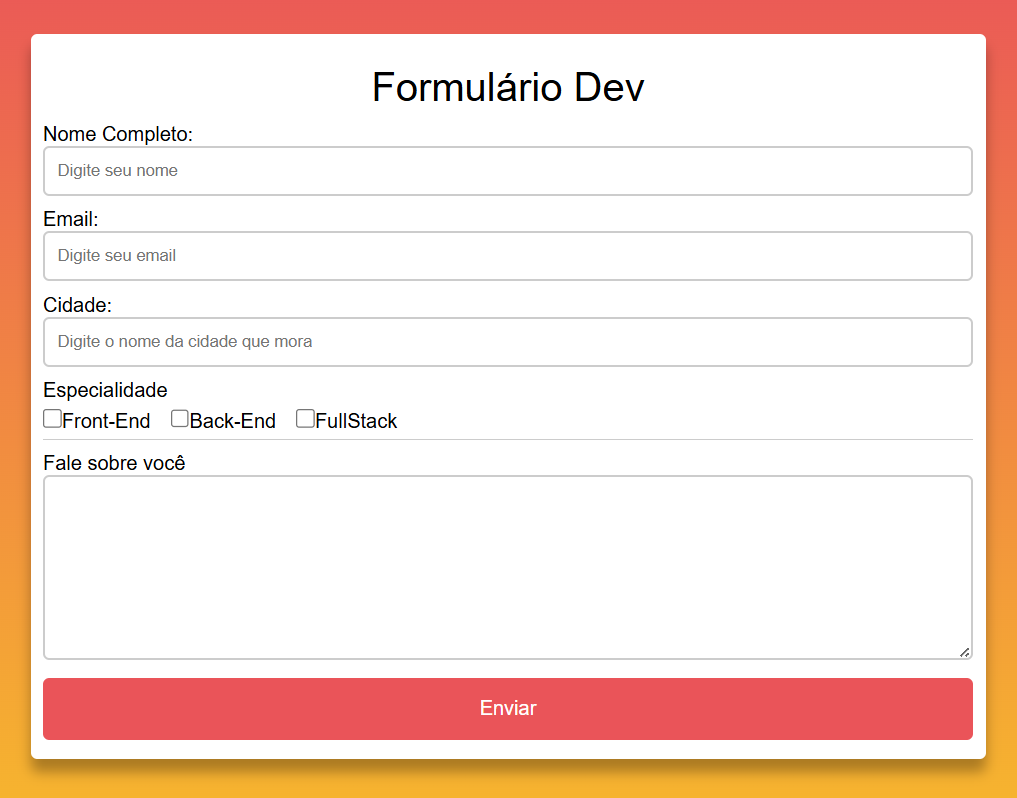
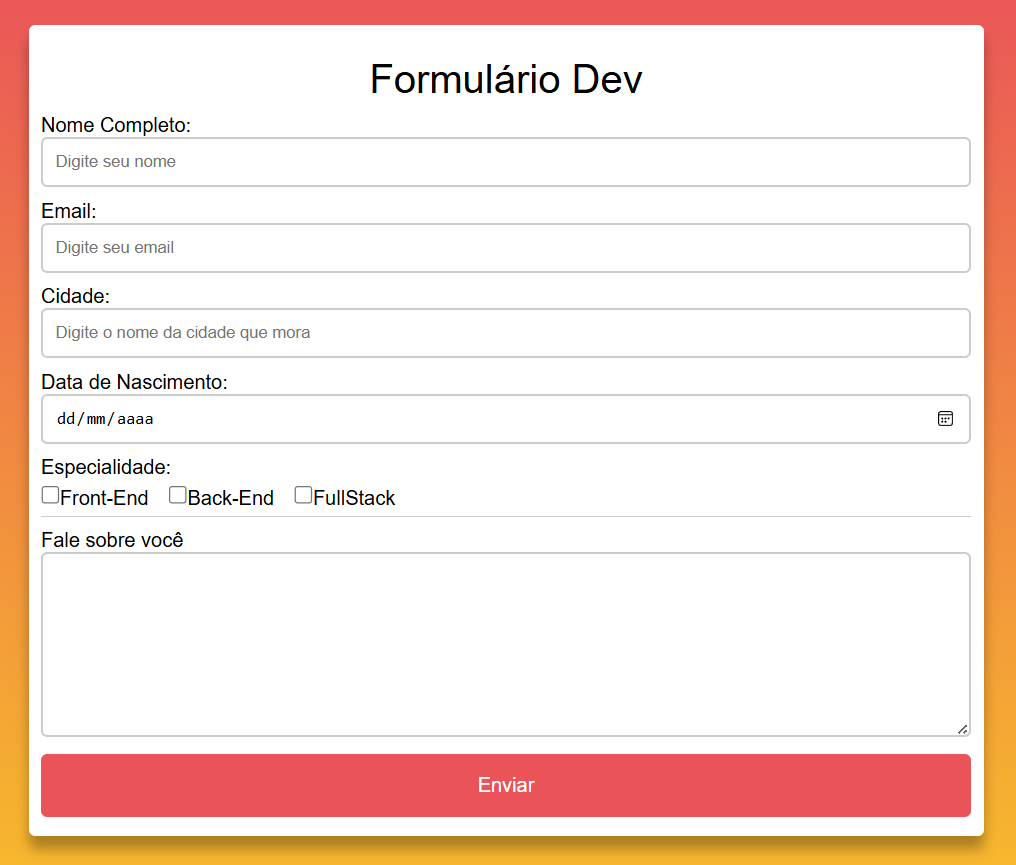
formulario

Changed region(s): [[0.0305, 0.1203, 0.9764, 0.9925], [0.0305, 0.0301, 0.9764, 0.1504], [0.9459, 0.6316, 0.9764, 0.6617]]

diff --git a/script.js b/script.js
@@ -4,6 +4,7 @@ function Enviar() {
     const cidade = document.getElementById('cidade');
     const texto = document.getElementById('texto');
     const checkboxs = document.querySelectorAll('.especialidade');
+    const aniversario = document.getElementById('aniversario');
 
     // Limpar os errors anteriores
     [nomeCompleto, email, cidade, texto].forEach(el => el.classList.remove('erro'));
@@ -24,6 +25,10 @@ function Enviar() {
     }
     if(texto.value.trim() === '') {
         texto.classList.add('erro');
+        formularioValido = false;
+    }
+    if(aniversario.value.trim() === '') {
+        aniversario.classList.add('erro');
         formularioValido = false;
     }
     if(formularioValido) {

diff --git a/index.html b/index.html
@@ -22,7 +22,11 @@
             <input id="cidade" type="text" placeholder="Digite o nome da cidade que mora">
         </div>
         <div class="info">
-            <h4>Especialidade</h4>
+            <h4>Data de Nascimento:</h4>
+            <input type="date" id="aniversario">
+        </div>
+        <div class="info">
+            <h4>Especialidade:</h4>
             <div class="areas">
                 <label for="#"><input type="checkbox" class="especialidade">Front-End</label>
                 <label for="#"><input type="checkbox" class="especialidade">Back-End</label>

diff --git a/style.css b/style.css
@@ -85,7 +85,7 @@ button{
 
 /*Error*/
 input.erro, textarea.erro{
-    border: 2px solid red;
+    border: 1px solid red;
 }
 
 /*Responsividade*/
